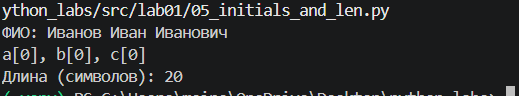
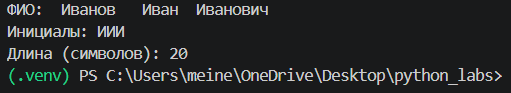
подправила 5 и 1

diff --git a/src/lab01/05_initials_and_len.py b/src/lab01/05_initials_and_len.py
@@ -1,4 +1,4 @@
 FIO = input('ФИО: ')
 a, b, c = FIO.split()
-print(f'a[0], b[0], c[0]')
-print(f'Длина (символов): {len(FIO)}') 
+print(f'Инициалы: {a[0]}{b[0]}{c[0]}')
+print(f'Длина (символов): {len(a) + len(b) + len(c) + 2}') 

diff --git a/src/lab01/01_greeting.py b/src/lab01/01_greeting.py
@@ -1,3 +1,3 @@
-n = str(input('Имя: '))
+name = str(input('Имя: '))
 age = int(input('Возраст: '))
 print(f"Привет, {n}! Через год тебе будет {age+1}.")
